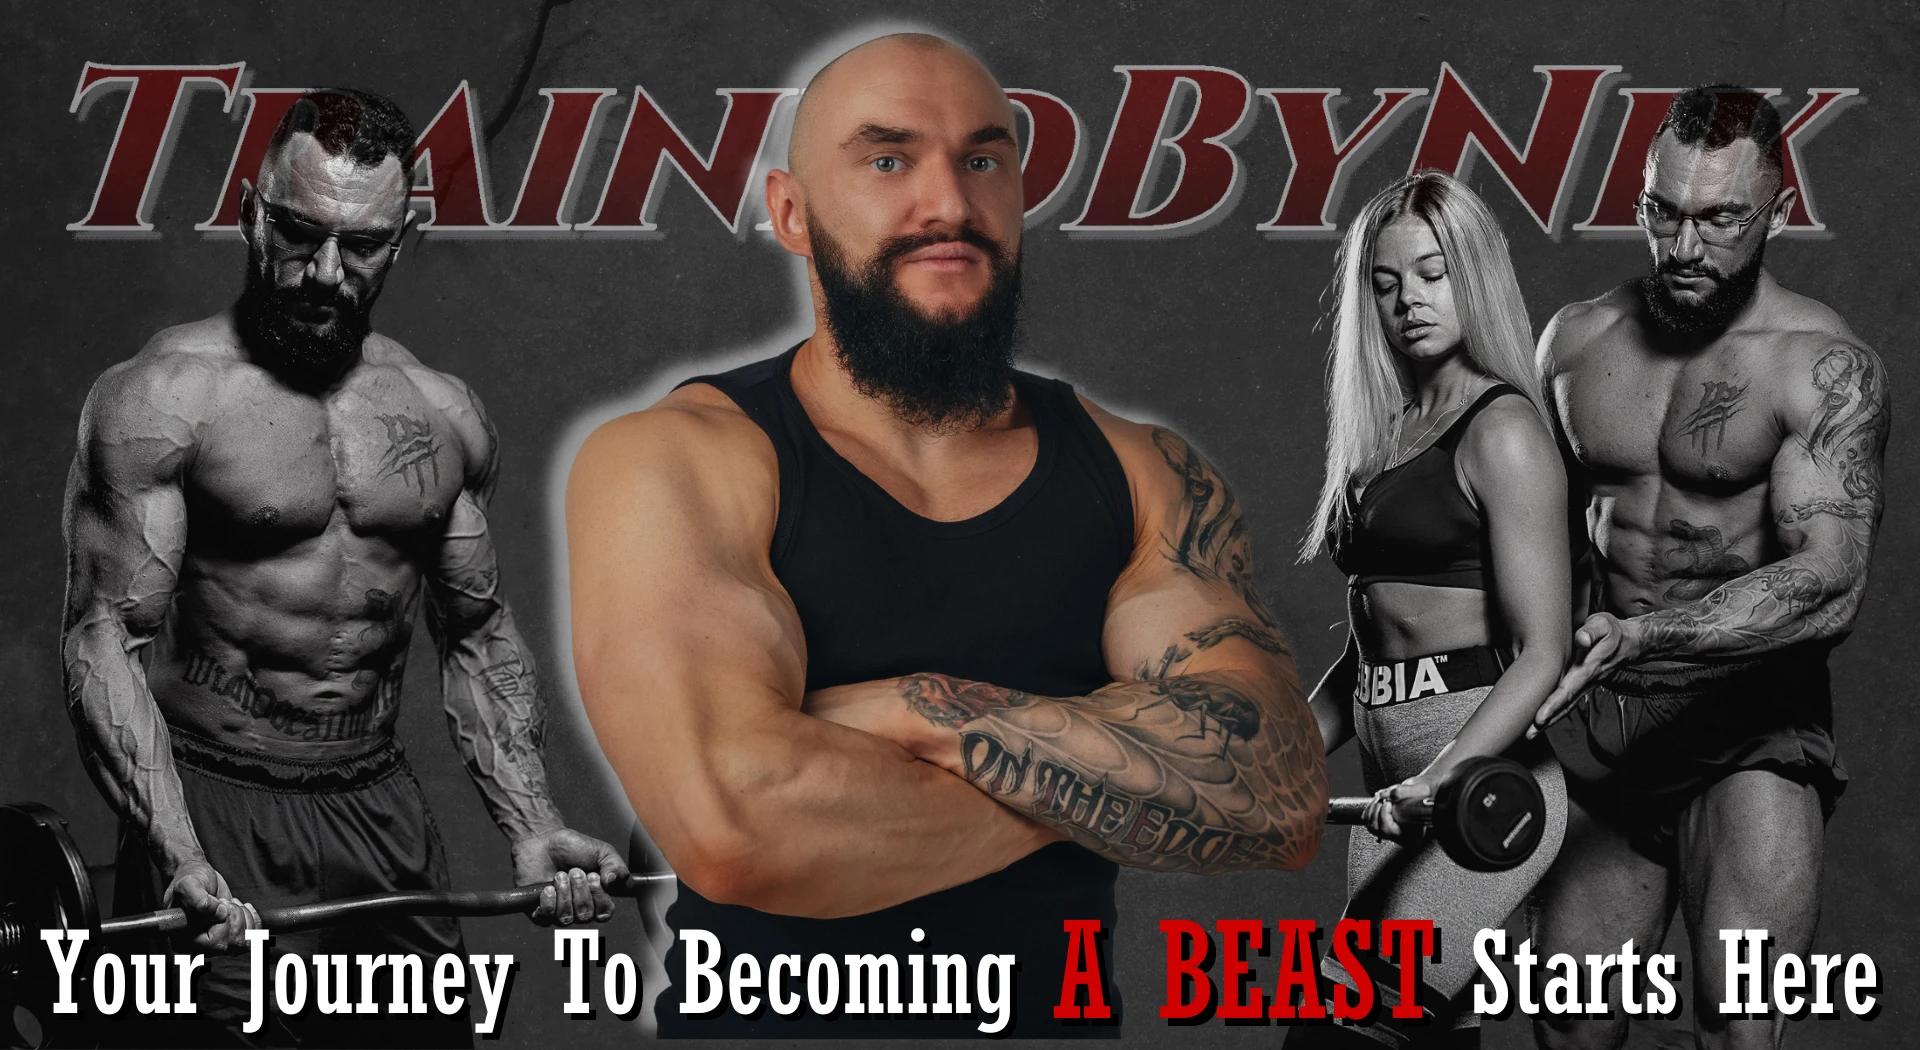
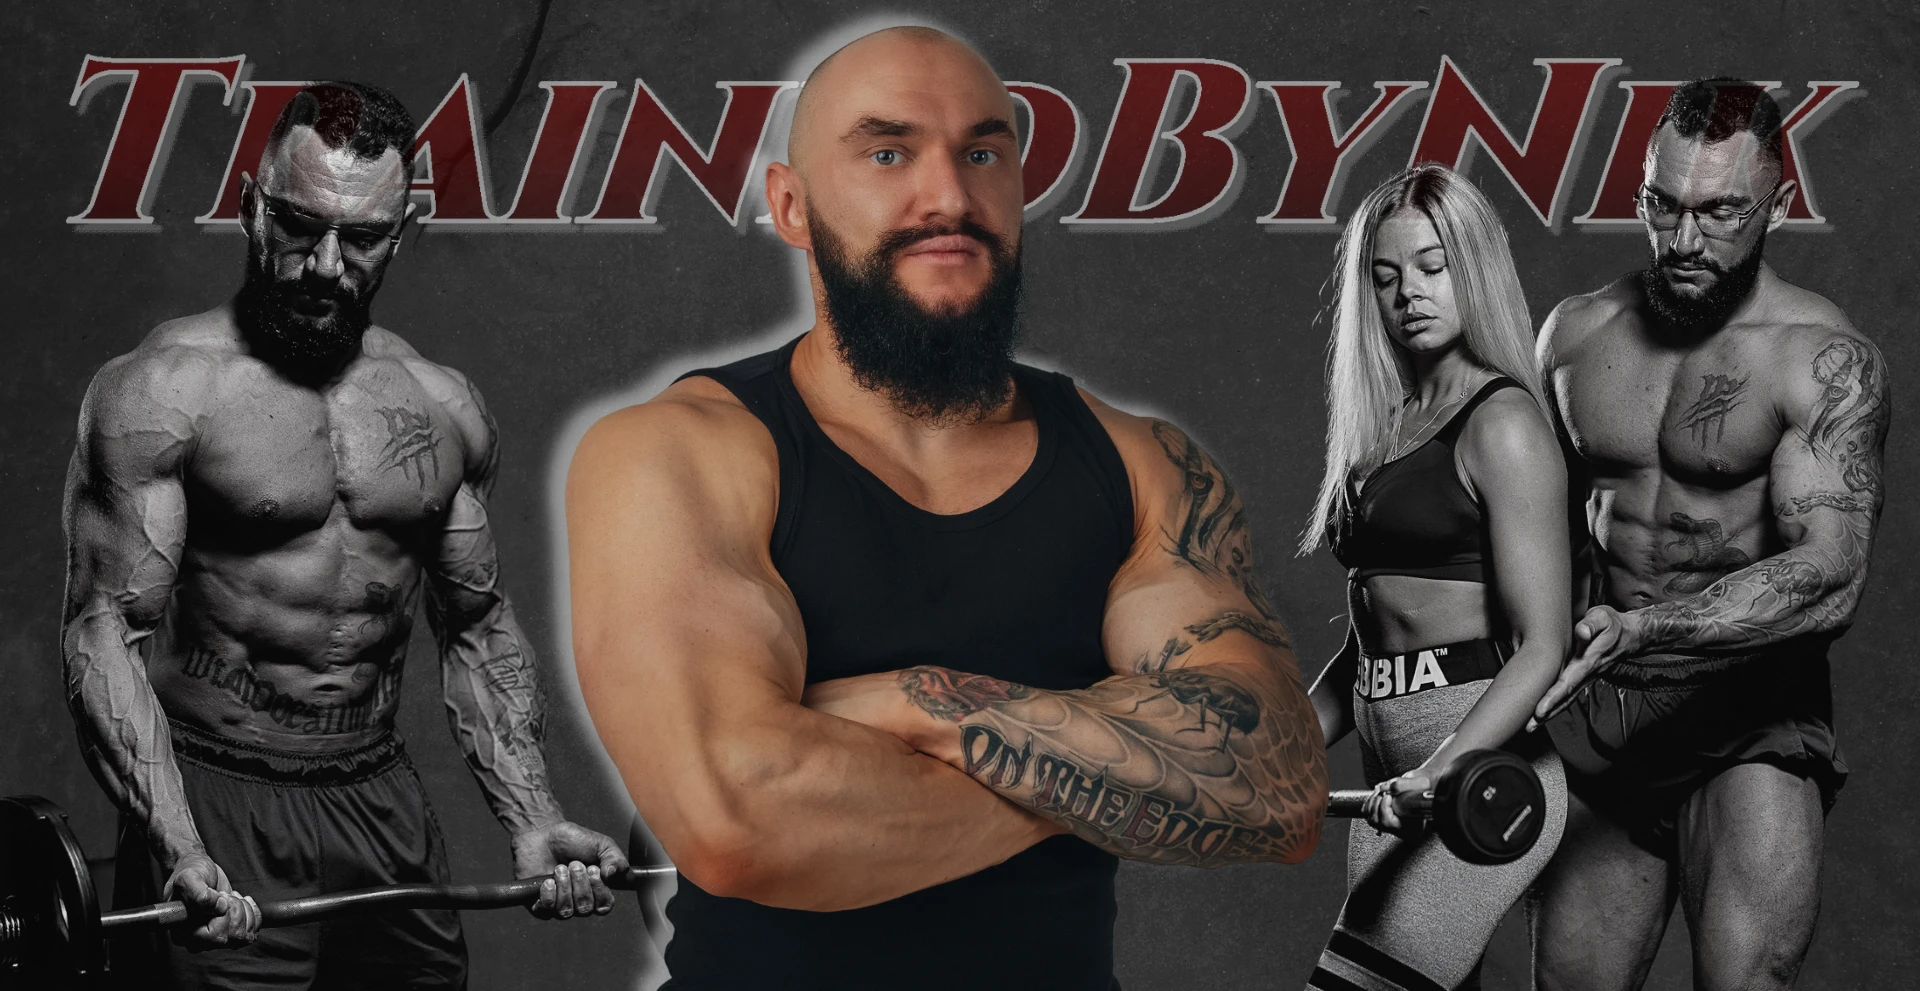
final updates

diff --git a/static/css/site.css b/static/css/site.css
@@ -8,6 +8,7 @@
     --texture-size: 12px 12px;
     --texture-verbose-size: var(--texture-size), var(--texture-size), var(--texture-size), var(--texture-size);
     --main-text-color: #fff;
+    --secondary-text-color: #000000;
     --accent-color: #c41616;
     --dark-accent-shadow: rgb(129 14 9);
     --hard-shadow: 0 2px 5px #000;
@@ -65,6 +66,11 @@ h6 {
 p,
 span, li {
     color: var(--main-text-color);
+}
+
+.gray-background p, .gray-background h2, .gray-background h3,
+.gray-background span, .gray-background li, .gray-background a {
+    color: var(--secondary-text-color);
 }
 
 span {
@@ -294,13 +300,25 @@ section h3 {
     color: rgb(245 245 245);
 }
 
-#services-page #main h1 {
+#main h1 {
     position: absolute;
-    left: 1vw;
     bottom: 0;
-    font-size: 5vw;
     text-shadow: var(--hard-text-shadow);
     color: rgb(245 245 245);
+}
+
+#main span {
+    text-shadow: var(--hard-text-shadow);
+}
+
+#services-page #main h1 {
+    left: 1vw;
+    font-size: 5vw;
+}
+
+#about-page #main h1 {
+    left: 3vw;
+    font-size: 6vw;
 }
 
 #main-image {
@@ -350,7 +368,6 @@ section h3 {
 #about-page section#bio {
     z-index: 24;
     background-image: url("/img/pages/about/bio/main.webp");
-    background-position: right;
 }
 #about-page section#coaching {
     z-index: 23;
@@ -494,7 +511,7 @@ section.side-text-section {
 }
 
 .contact-img{
-    width: 10vw;
+    width: 4vw;
     margin-right: 10px;
 }
 
@@ -509,7 +526,7 @@ section.side-text-section {
 
 @media (min-width: 968px) {
     .contact-link {
-        font-size: 3.2vw;
+        font-size: 2vw;
     }
 
     #coaching-page .contact-link {
@@ -517,7 +534,7 @@ section.side-text-section {
     }
 
     #coaching-page .contact-img{
-        width: 5vw;
+        width: 3vw;
     }
 }
 
@@ -930,6 +947,7 @@ footer p {
 }
 
 #coaching-page #main #title-text h1 {
+    position: relative;
     font-size: 6vw;
     text-decoration: none;
     text-align: start;
@@ -1360,13 +1378,20 @@ p.name {
 
 .price-card {
     position: relative;
-    width: 390px;
+    min-width: 300px;
     background-color: black;
     border-radius: 6px;
     padding: 20px;
     color: white;
     border: var(--main-text-color) solid 2px;
     transition: transform 0.3s, box-shadow 0.3s;
+}
+
+@media (min-width: 768px) {
+    .price-card {
+        min-width: 500px;
+        width: 29%;
+    }
 }
 
 /* .price-card:hover {
